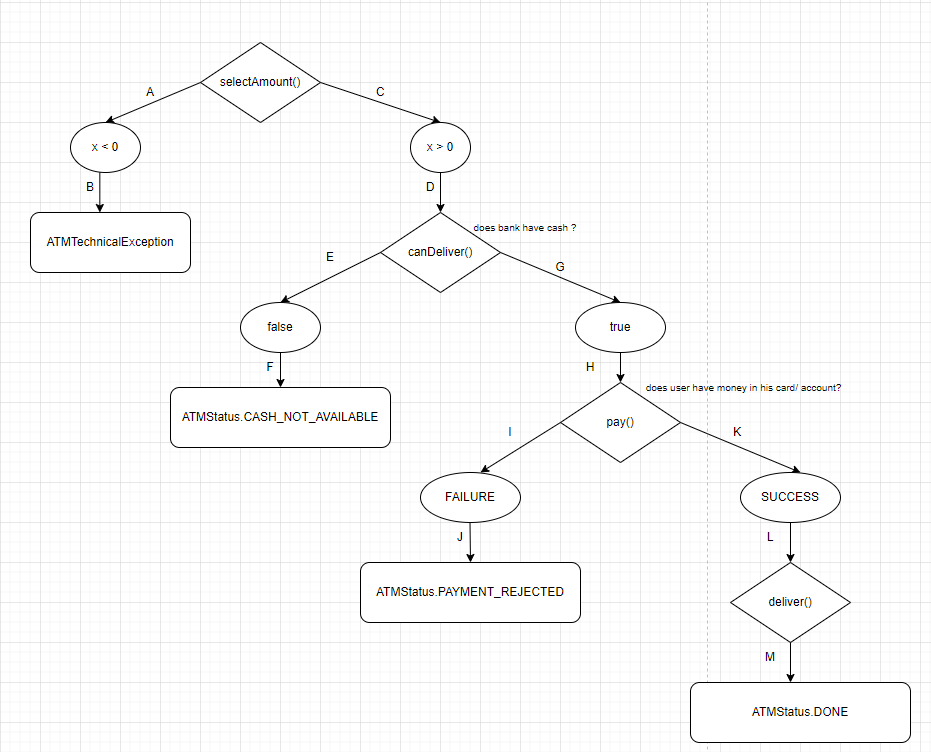
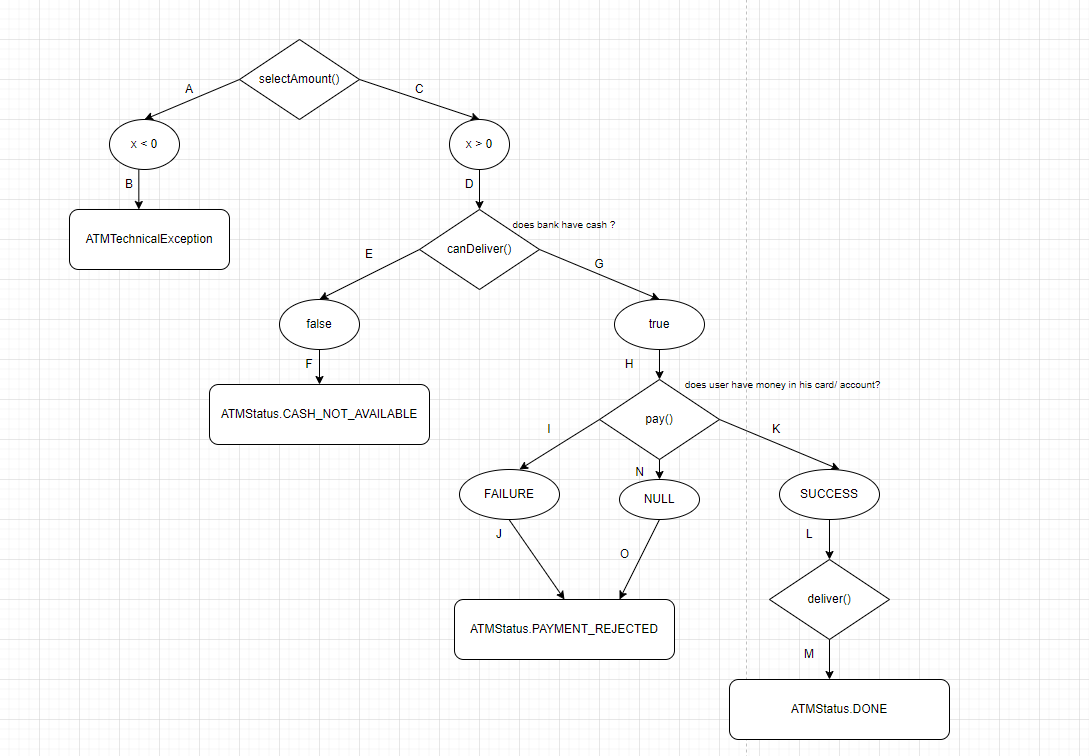
[feature/unit-tests] add comments to highlight the use of "Given When Then" testing pattern, and update cashWithdrawlWorkflow picture

diff --git a/src/test/java/fraj/lab/recruit/test2/atm/ATMTest.java b/src/test/java/fraj/lab/recruit/test2/atm/ATMTest.java
@@ -2,6 +2,7 @@ package fraj.lab.recruit.test2.atm;
 
 import org.junit.jupiter.api.BeforeAll;
 import org.junit.jupiter.api.Test;
+import org.junit.jupiter.api.function.Executable;
 
 import static org.junit.jupiter.api.Assertions.assertEquals;
 import static org.junit.jupiter.api.Assertions.assertThrows;
@@ -26,24 +27,30 @@ class ATMTest {
     @Test
     void testRunCashWithdrawal_WithInvalidAmount_ReturnsATMTechnicalException() {
 
+        // Given
         int invalidAmount = 0;
-
         when(amountSelectorMock.selectAmount()).thenReturn(invalidAmount);
 
-        assertThrows(ATMTechnicalException.class, atm::runCashWithdrawal);
+        // When
+        Executable executable = () -> atm.runCashWithdrawal();
+
+        // Then
+        assertThrows(ATMTechnicalException.class, executable);
 
     }
 
     @Test
     void testRunCashWithdrawal_WithUnavailableCash_ReturnsCashNotAvailableStatus() throws ATMTechnicalException {
 
+        // Given
         int validAmount = 100;
-
         when(amountSelectorMock.selectAmount()).thenReturn(validAmount);
         when(cashManagerMock.canDeliver(validAmount)).thenReturn(false);
 
+        // When
         ATMStatus atmStatus = atm.runCashWithdrawal();
 
+        // Then
         assertEquals(ATMStatus.CASH_NOT_AVAILABLE, atmStatus);
 
     }
@@ -51,14 +58,16 @@ class ATMTest {
     @Test
     void testRunCashWithdrawal_WithAvailableCashAndFailedPayment_ReturnsPaymentRejectedStatus() throws ATMTechnicalException {
 
+        // Given
         int validAmount = 120;
-
         when(amountSelectorMock.selectAmount()).thenReturn(validAmount);
         when(cashManagerMock.canDeliver(validAmount)).thenReturn(true);
         when(paymentProcessorMock.pay(validAmount)).thenReturn(PaymentStatus.FAILURE);
 
+        // When
         ATMStatus atmStatus = atm.runCashWithdrawal();
 
+        // Then
         assertEquals(ATMStatus.PAYMENT_REJECTED, atmStatus);
 
     }
@@ -66,14 +75,16 @@ class ATMTest {
     @Test
     void testRunCashWithdrawal_WithAvailableCashAndNullPayment_ReturnsPaymentRejectedStatus() throws ATMTechnicalException {
 
+        // Given
         int validAmount = 140;
-
         when(amountSelectorMock.selectAmount()).thenReturn(validAmount);
         when(cashManagerMock.canDeliver(validAmount)).thenReturn(true);
         when(paymentProcessorMock.pay(validAmount)).thenReturn(null);
 
+        // When
         ATMStatus atmStatus = atm.runCashWithdrawal();
 
+        // Then
         assertEquals(ATMStatus.PAYMENT_REJECTED, atmStatus);
 
     }
@@ -81,14 +92,16 @@ class ATMTest {
     @Test
     void testRunCashWithdrawal_WithAvailableCashAndSuccessPayment_ReturnsOperationDoneStatus() throws ATMTechnicalException {
 
+        // Given
         int validAmount = 80;
-
         when(amountSelectorMock.selectAmount()).thenReturn(validAmount);
         when(cashManagerMock.canDeliver(validAmount)).thenReturn(true);
         when(paymentProcessorMock.pay(validAmount)).thenReturn(PaymentStatus.SUCCESS);
 
+        // When
         ATMStatus atmStatus = atm.runCashWithdrawal();
 
+        // Then
         assertEquals(ATMStatus.DONE, atmStatus);
 
     }
